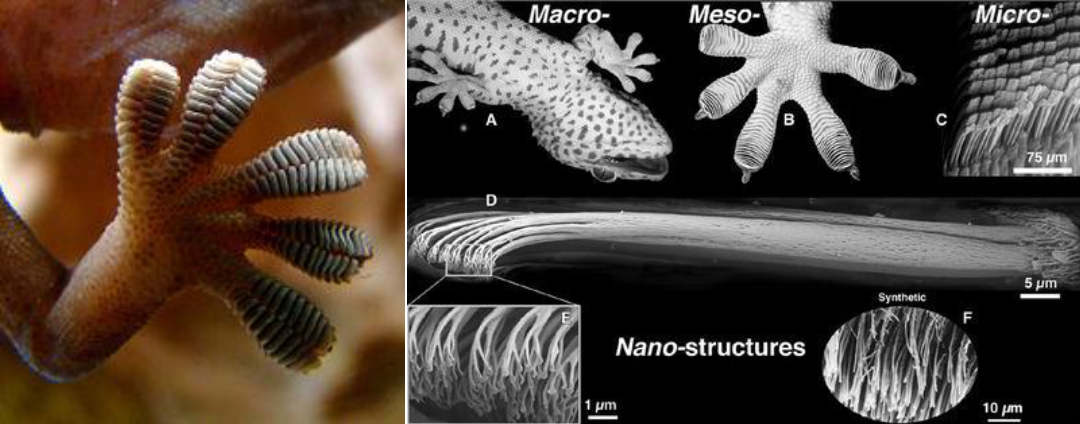
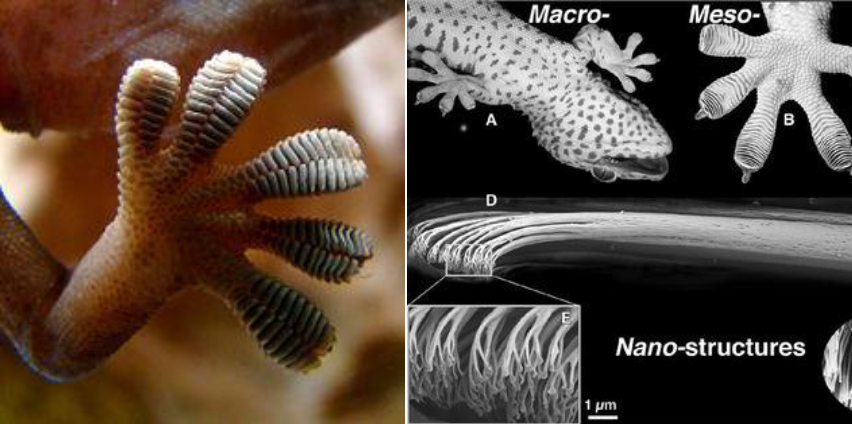
add first project

diff --git a/_projects/2017-06-01-first.md b/_projects/2017-06-01-first.md
@@ -1,0 +1,43 @@
+---
+title: "FIRST Robotics Competition (FRC) and FIRST Tech Challenge (FTC)"
+excerpt: "During my high school years, I actively participated in the FIRST Robotics Competition (FRC) and FIRST Tech Challenge (FTC). The competition include 2015-2016 FRC season 'Stronghold', 2016-2017 FRC season 'STEAMworks' and 2015-2016 FTC season 'Res-Q', 2016-2017 FTC season 'Velocity Vortex'."
+header:
+  image: /assets/images/projects/first/image.png #
+  teaser: /assets/images/projects/first/image.png #
+sidebar:
+  - title: "Role"
+    text: "Mechanical Engineer (FTC & FRC) and Captain (FTC)"
+  - title: "Responsibilities"
+    text: "Mechanical Design and Robot Building"
+gallery:
+  - url: /assets/images/projects/first/image copy 2.png
+    image_path: assets/images/projects/first/image copy 2.png
+    # alt: "placeholder image 1"
+  - url: /assets/images/projects/first/image copy 3.png
+    image_path: assets/images/projects/first/image copy 3.png
+    # alt: "placeholder image 2"
+  - url: /assets/images/projects/first/image copy 4.png
+    image_path: assets/images/projects/first/image copy 4.png
+    # alt: "placeholder image 3"
+
+  - url: /assets/images/projects/first/image copy 5.png
+    image_path: assets/images/projects/first/image copy 5.png
+  - url: /assets/images/projects/first/image copy.png
+    image_path: assets/images/projects/first/image copy.png
+
+classes: wide
+---
+
+During my high school years, I actively participated in the FIRST Robotics Competition (FRC) and FIRST Tech Challenge (FTC). The competition include 2015-2016 FRC season "Stronghold", 2016-2017 FRC season "STEAMworks" and 2015-2016 FTC season "Res-Q", 2016-2017 FTC season "Velocity Vortex".
+
+In FRC, I competed in the 2015-2016 season "Stronghold" — a medieval-themed challenge where alliances breached defenses and captured towers by launching boulders — and the 2016-2017 season "STEAMworks", a steampunk-inspired game focused on collecting fuel (balls), delivering gears to build rotating mechanisms, and climbing ropes to prepare airships for launch. 
+
+Concurrently in FTC, I took part in the 2015-2016 season "Res-Q", which involved mountain climbing, particle scoring, zip-line operations, and precise beacon pressing, as well as the 2016-2017 season "Velocity Vortex". These multi-year experiences strengthened my technical skills, problem-solving abilities, and passion for STEM innovation while teaching me the value of Gracious Professionalism® and effective teamwork in high-pressure competitive environments.
+
+### **Prizes and Awards**
+
+- Runner up alliance for FRC 2016 China Region & Beijing
+- Second prize for FTC 2017 China as captain
+- Second prize for FTC 2017 World Championship
+
+{% include gallery caption="" %}

diff --git a/_projects/2020-08-31-urop.md b/_projects/2020-08-31-urop.md
@@ -1,6 +1,6 @@
 ---
-title: "UROP: Gecko Inspired Robotics Gripper Development for Warehouse Automation"
-excerpt: "This UROP project is named as Robotics Gripper Development for Warehouse Automation. The naming involves Gripper and Automation which means the research focus on developing a gripper mechanism which can be applied to warehouse environment mainly for automation purpose. "
+title: "Gecko Inspired Robotics Gripper Development for Warehouse Automation"
+excerpt: "This Undergraduate Research Opportunities Program (UROP) project is named as Robotics Gripper Development for Warehouse Automation. The naming involves Gripper and Automation which means the research focus on developing a gripper mechanism which can be applied to warehouse environment mainly for automation purpose. "
 header:
   image: /assets/images/projects/urop/image.png
   teaser: /assets/images/projects/urop/image.png
@@ -26,7 +26,7 @@ gallery:
 classes: wide
 ---
 
-This UROP project is named as Robotics Gripper Development for Warehouse Automation. The naming involves Gripper and Automation which means the research focus on developing a gripper mechanism which can be applied to warehouse environment mainly for automation purpose. The gripper mentioned above is not the normal mechanical gripper we see in our daily life but another kind of special gripper that require special material design for the touching surface of the gripper and the object to be gripped. The material is a kind of gecko inspired dry adhesive which was inspired by the gecko’s feet. For 2020 summer, the UROP research focus on mostly material design and fabrication and the mechanism mechanical design of the gripper.
+This Undergraduate Research Opportunities Program (UROP) project is named as Robotics Gripper Development for Warehouse Automation. The naming involves Gripper and Automation which means the research focus on developing a gripper mechanism which can be applied to warehouse environment mainly for automation purpose. The gripper mentioned above is not the normal mechanical gripper we see in our daily life but another kind of special gripper that require special material design for the touching surface of the gripper and the object to be gripped. The material is a kind of gecko inspired dry adhesive which was inspired by the gecko’s feet. For 2020 summer, the UROP research focus on mostly material design and fabrication and the mechanism mechanical design of the gripper.
 
 # **Work**
 - Gecko adhesive material fabrication
